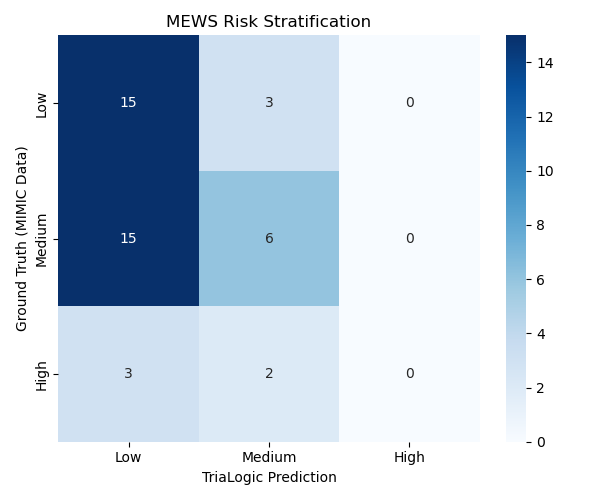
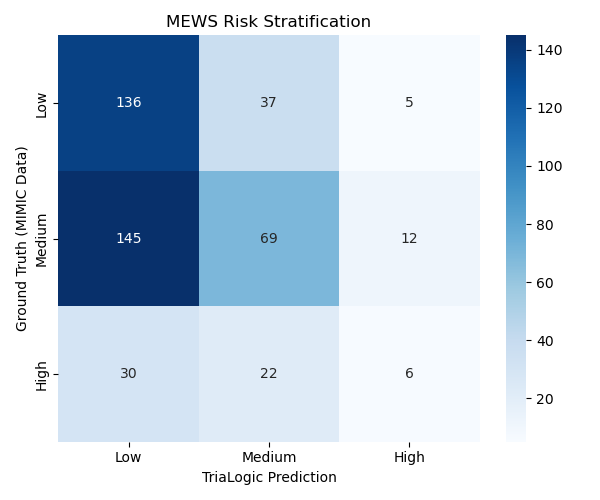
feat: adiciona função para inferir estado de consciência e ajusta amostragem de coortes no filtro de dados

diff --git a/scripts/evaluation.py b/scripts/evaluation.py
@@ -16,12 +16,17 @@ NEWS_PATTERN = re.compile(r"SCORE TOTAL NEWS:\s*(\d+)")
 MEWS_PATTERN = re.compile(r"SCORE TOTAL MEWS:\s*(\d+)")
 
 # --- 1. INDEPENDENT ORACLE (GROUND TRUTH CALCULATOR) ---
+def infer_avpu_from_csv(row):
+    cc = str(row.get('chiefcomplaint', '')).lower()
+    triggers = ['confusion', 'confused', 'disoriented', 'altered mental', 'lethargic', 'unresponsive', 'obtunded']
+    
+    if any(t in cc for t in triggers):
+        return 3
+    return 0
 
 def oracle_news2(row):
-    # logger.debug("Calculating NEWS...")
     score = 0
     
-    # Se faltar dado vital, retornamos NaN para não sujar a métrica
     if pd.isna(row.get('triage_sbp')) or pd.isna(row.get('triage_heartrate')):
         return np.nan
 
@@ -61,13 +66,15 @@ def oracle_news2(row):
 
     # Supplemental Oxygen (Assume False as lacking data, matches extracting 'supplemental_oxygen' 0 in most cases if unknown)
     score += 0 
-
+    
     # Consciousness (Using Acuity as Proxy because AVPU is missing)
     # ESI 1/2 -> Likely altered mental status
     acuity = row.get('triage_acuity')
     if pd.notna(acuity):
         if acuity <= 2: 
-            score += 3 # New Confusion or Worse
+            score += 3
+        elif (rr < 8) or (rr > 30) or (sbp < 90) or (o2 < 90) or (hr > 130) or (hr < 40):
+            score += 3
     
     return score
 
@@ -111,6 +118,8 @@ def oracle_mews(row):
     if pd.notna(acuity):
         if acuity <= 1: score += 3 # Unresponsive
         elif acuity == 2: score += 2 # Pain/Voice? Heuristic.
+        elif (rr < 8) or (rr > 30) or (sbp < 90) or (hr > 130) or (hr < 40):
+            score += 2
         # else 0 (Alert)
     
     return score
@@ -155,23 +164,25 @@ def evaluate_vitals(df):
     logger.info("\n=== 1. EXTRACTION EVALUATION (SCRIBE AGENT) ===")
     
     metrics = [
-        ('triage_heartrate', 'vitals.heartrate', 'Heart Rate'),
-        ('triage_sbp', 'vitals.sbp', 'SBP'),
-        ('triage_resprate', 'vitals.resprate', 'Resp Rate'),
-        ('triage_o2sat', 'vitals.o2sat', 'O2 Sat'),
-        ('triage_dbp', 'vitals.dbp', 'DBP'),
-        ('triage_temperature', 'vitals.temperature', 'Temperature')
+        ('triage_heartrate', 'heartrate', 'Heart Rate', 0, 300), # Range válido
+        ('triage_sbp', 'sbp', 'SBP', 0, 300),
+        ('triage_dbp', 'dbp', 'DBP', 0, 200),
+        ('triage_resprate', 'resprate', 'Resp Rate', 0, 100),
+        ('triage_o2sat', 'o2sat', 'O2 Sat', 0, 100),
+        ('triage_temperature', 'temperature', 'Temperature', 0, 120)
     ]
+
     
     report = []
     
-    for gt_col, pred_path, label in metrics:        
+    for gt_col, pred_key, label, min_val, max_val in metrics:        
         y_true = []
         y_pred = []
         
+        outliers = 0
         valid_count = 0
         # missing_pred_count = 0
-        for _, row in df.iterrows():
+        for idx, row in df.iterrows():
             gt_val = row.get(gt_col)
 
             pred_val = None
@@ -190,7 +201,7 @@ def evaluate_vitals(df):
                         ext_data = raw_ext if isinstance(raw_ext, dict) else json.loads(raw_ext)
                         vitals = ext_data.get('vitals', {})
                 
-                pred_key = pred_path.split('.')[1] 
+                # pred_key already defined in loop var
                 pred_val = vitals.get(pred_key)
                 
             except Exception:
@@ -200,21 +211,29 @@ def evaluate_vitals(df):
             # Evaluation Logic
             if pd.notna(gt_val) and pred_val is not None:
                 try: 
-                    val_float = float(pred_val)
+                    gt_float = float(gt_val)
+                    pred_float = float(pred_val)
                     
-                    # Sanitation for DBP/SBP outliers
-                    if 'BP' in label and val_float > 300:
+                    # --- Santizing Filter ---
+                    if not (min_val <= pred_float <= max_val):
+                        outliers += 1
+                        continue
+                    if not (min_val <= pred_float <= max_val):
+                        outliers += 1
                         continue 
 
                     # Temperature Normalization (F to C)
-                    g_v = float(gt_val)
-                    p_v = val_float
                     if label == 'Temperature':
-                        if g_v > 50: g_v = (g_v - 32) * 5/9
-                        if p_v > 50: p_v = (p_v - 32) * 5/9
+                        if gt_float > 50 and pred_float < 50:
+                            gt_float = (gt_float - 32) * 5/9
+                        elif pred_float > 50 and gt_float < 50:
+                            pred_float = (pred_float - 32) * 5/9
 
-                    y_true.append(g_v)
-                    y_pred.append(p_v)
+                    if abs(gt_float - pred_float) > 100:
+                        logger.warning(f"🚨 HUGE ERROR DETECTED in {label} (Idx {idx}): GT={gt_float} vs Pred={pred_float}")
+
+                    y_true.append(gt_float)
+                    y_pred.append(pred_float)
                     valid_count += 1
                 except ValueError:
                     pass
@@ -222,11 +241,11 @@ def evaluate_vitals(df):
         # Metrics Computation
         if y_true:
             mae = mean_absolute_error(y_true, y_pred)
-            tol = 0.5 if label == 'Temperature' else 5.0 # Increased tolerance slightly
+            tol = 0.5 if label == 'Temperature' else 5.0
             correct = sum([1 for t, p in zip(y_true, y_pred) if abs(t - p) <= tol])
             acc = correct / len(y_true)
             
-            logger.info(f"{label:<15} | MAE: {mae:.2f} | Acc (+-{tol}): {acc:.1%} | N: {valid_count}")
+            logger.info(f"{label:<15} | MAE: {mae:.2f} | Acc (+-{tol}): {acc:.1%} | N: {valid_count} | Outliers Removidos: {outliers}")
             
             report.append({
                 "Metric": label, 
@@ -272,9 +291,10 @@ def evaluate_risk(df):
                 y_pred.append(int(pred))
                 
         if y_true:
+            labels = ['Low', 'Medium', 'High']
             acc = accuracy_score(y_true, y_pred)
             mae = mean_absolute_error(y_true, y_pred)
-            
+
             logger.info(f"--- {label} ---")
             logger.info(f"Exact Score Accuracy: {acc:.1%}")
             logger.info(f"MAE (Deviation):      {mae:.2f}")
@@ -299,14 +319,17 @@ def evaluate_risk(df):
 
             c_true = [cat_func(s) for s in y_true]
             c_pred = [cat_func(s) for s in y_pred]
-            
+
             cat_acc = accuracy_score(c_true, c_pred)
             logger.info(f"Risk Category Accuracy: {cat_acc:.1%}")
 
             labels = ['Low', 'Medium', 'High']
             cm = confusion_matrix(c_true, c_pred, labels=labels)
             
-            # Better Matrix Printing
+            high_idx = 2 
+            recall_high = cm[high_idx, high_idx] / sum(cm[high_idx, :]) if sum(cm[high_idx, :]) > 0 else 0
+            logger.info(f"Recall High Risk (Critical): {recall_high:.1%}")
+
             cm_df = pd.DataFrame(cm, index=[f"True_{l}" for l in labels], columns=[f"Pred_{l}" for l in labels])
             logger.info(f"\nConfusion Matrix ({label}):")
             logger.info("\n" + str(cm_df))

diff --git a/scripts/filter_dataset.py b/scripts/filter_dataset.py
@@ -1,42 +1,35 @@
 import polars as pl
 import os
 
-SEED = 42 # Seed garante reprodutibilidade (CRUCIAL para ciência)
+SEED = 42
 
-# 1. Carregue o Dataset Filtrado (que você já tem)
-# Supondo que você salvou como 'mimic_iv_ed_filtered.csv'
+# 1. Load Filtered Dataset
 df = pl.read_csv(os.path.join(os.getcwd(), "data/discharge_filtered.csv")) # ou o seu arquivo filtrado
 
-# 2. Defina Palavras-chave para as Coortes (Heurística simples para seleção)
-# Obs: No mundo ideal usaríamos códigos CID-10 (ICD-10), mas busca textual serve para selecionar notas.
+# 2. Define Keywords for bins (Simple Heuristics for Selection)
 sepsis_keywords = ["sepsis", "septic", "infection", "fever"]
 cardio_keywords = ["chest pain", "acs", "myocardial", "stemi", "troponin"]
 trauma_keywords = ["trauma", "fall", "fracture", "mva", "collision", "head injury"]
 
 def filter_cohort(df, keywords, n=50):
-    # Cria uma expressão regex: "sepsis|septic|infection"
     pattern = "|".join(keywords)
     
-    # Filtra e faz amostragem aleatória (Shuffle)
     return (
         df.filter(pl.col("text").str.to_lowercase().str.contains(pattern))
           .sample(n=n, seed=SEED) 
           .with_columns(pl.lit(keywords[0]).alias("cohort_type")) # Marca a coorte
     )
 
-# 3. Gere as Amostras
-# Vamos pegar 50 de cada para totalizar 150 casos de teste profundos
-df_sepsis = filter_cohort(df, sepsis_keywords, n=15)
-df_cardio = filter_cohort(df, cardio_keywords, n=15)
-df_trauma = filter_cohort(df, trauma_keywords, n=20)
+# 3. Generate the random samples
+df_sepsis = filter_cohort(df, sepsis_keywords, n=150)
+df_cardio = filter_cohort(df, cardio_keywords, n=150)
+df_trauma = filter_cohort(df, trauma_keywords, n=200)
 
-# 4. Concatene e Salve
+# 4. Concatenate and save
 gold_dataset = pl.concat([df_sepsis, df_cardio, df_trauma])
-
-# Embaralha final para não ficarem ordenados por tipo
 gold_dataset = gold_dataset.sample(fraction=1.0, seed=SEED)
 
-print(f"Dataset de Validação Criado com {len(gold_dataset)} notas.")
+print(f"Validation Dataset created with {len(gold_dataset)} notes.")
 print(gold_dataset["cohort_type"].value_counts())
 
 gold_dataset.write_csv(os.path.join(os.getcwd(), "data/gold_standard_dataset.csv"))
